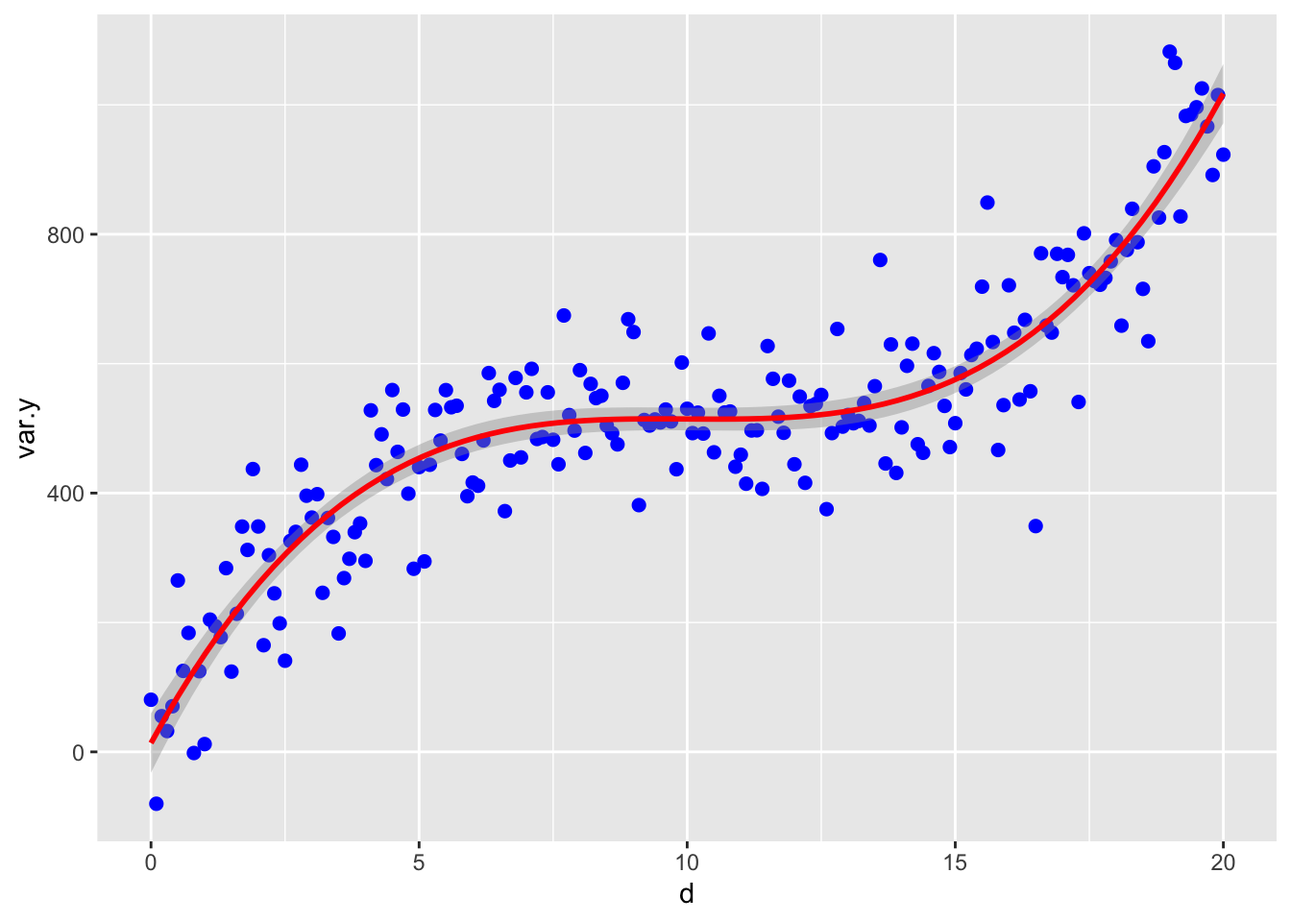
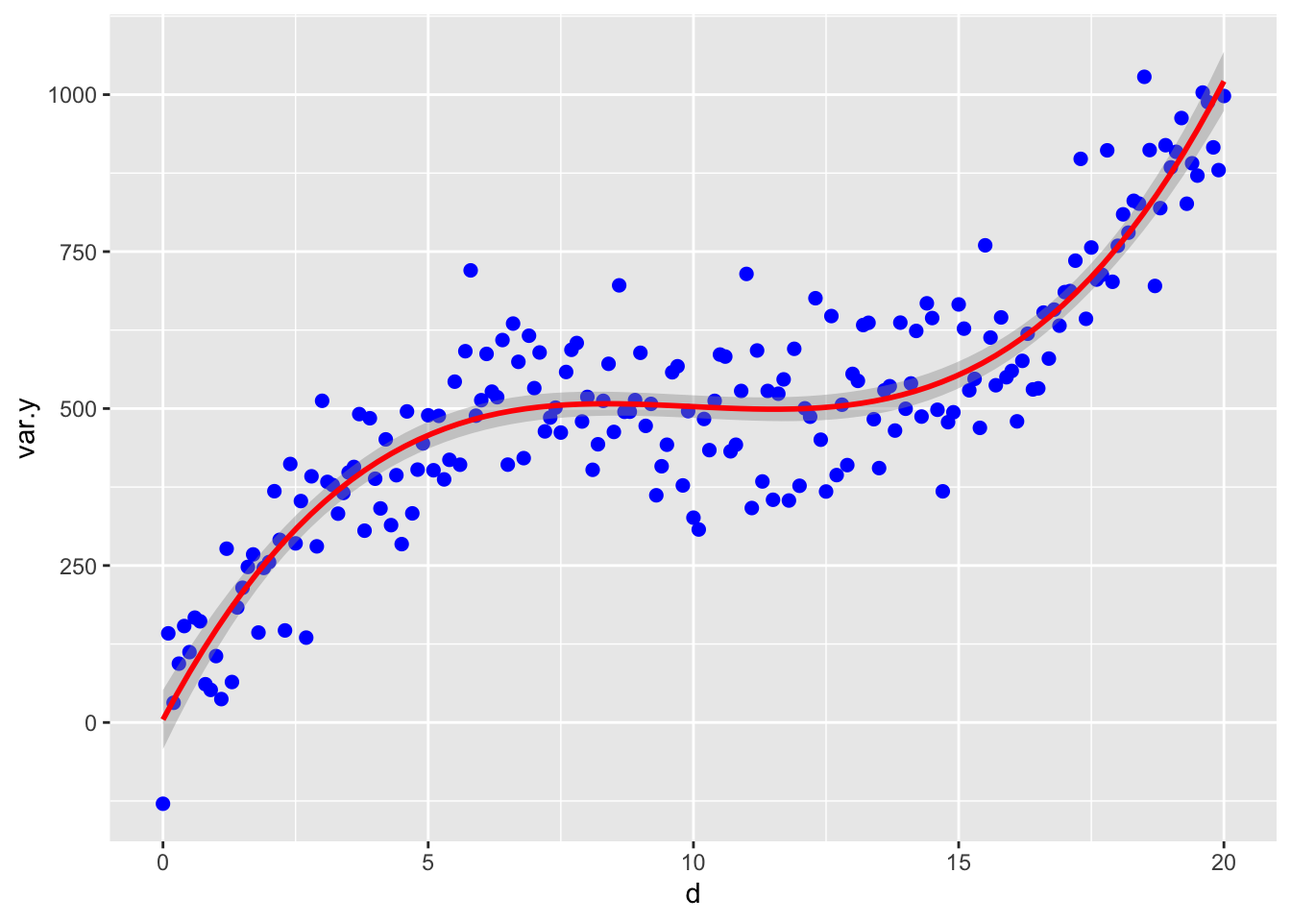
TF2

diff --git a/TF2_Regresion_Cuadratica_otro.html b/TF2_Regresion_Cuadratica_otro.html
@@ -687,34 +687,24 @@ div.tocify {
 }
 </style>
 <p><img src="Graficos/Analitica.png" width="50%" /><img src="Graficos/UPR_IPERT_logo.png" width="50%" /></p>
-<div class="sourceCode" id="cb1"><pre class="sourceCode r"><code class="sourceCode r"><span id="cb1-1"><a href="#cb1-1"></a>colorize &lt;-<span class="st"> </span><span class="cf">function</span>(x, color) {</span>
-<span id="cb1-2"><a href="#cb1-2"></a>  <span class="cf">if</span> (knitr<span class="op">::</span><span class="kw">is_latex_output</span>()) {</span>
-<span id="cb1-3"><a href="#cb1-3"></a>    <span class="kw">sprintf</span>(<span class="st">&quot;</span><span class="ch">\\</span><span class="st">textcolor{%s}{%s}&quot;</span>, color, x)</span>
-<span id="cb1-4"><a href="#cb1-4"></a>  } <span class="cf">else</span> <span class="cf">if</span> (knitr<span class="op">::</span><span class="kw">is_html_output</span>()) {</span>
-<span id="cb1-5"><a href="#cb1-5"></a>    <span class="kw">sprintf</span>(<span class="st">&quot;&lt;span style=&#39;color: %s;&#39;&gt;%s&lt;/span&gt;&quot;</span>, color, </span>
-<span id="cb1-6"><a href="#cb1-6"></a>      x)</span>
-<span id="cb1-7"><a href="#cb1-7"></a>  } <span class="cf">else</span> x</span>
-<span id="cb1-8"><a href="#cb1-8"></a>}</span>
-<span id="cb1-9"><a href="#cb1-9"></a></span>
-<span id="cb1-10"><a href="#cb1-10"></a><span class="co">#`r colorize(&quot;some words in red&quot;, &quot;red&quot;)`</span></span></code></pre></div>
 <hr />
-<div class="sourceCode" id="cb2"><pre class="sourceCode r"><code class="sourceCode r"><span id="cb2-1"><a href="#cb2-1"></a><span class="cf">if</span> (<span class="op">!</span><span class="kw">require</span>(<span class="st">&quot;pacman&quot;</span>)) <span class="kw">install.packages</span>(<span class="st">&quot;pacman&quot;</span>)</span>
-<span id="cb2-2"><a href="#cb2-2"></a>pacman<span class="op">::</span><span class="kw">p_load</span>(QuantPsyc, car, tidyverse, sjPlot)</span>
-<span id="cb2-3"><a href="#cb2-3"></a></span>
-<span id="cb2-4"><a href="#cb2-4"></a></span>
-<span id="cb2-5"><a href="#cb2-5"></a><span class="kw">library</span>(QuantPsyc)</span>
-<span id="cb2-6"><a href="#cb2-6"></a><span class="kw">library</span>(car)</span>
-<span id="cb2-7"><a href="#cb2-7"></a><span class="kw">library</span>(ggplot2)</span>
-<span id="cb2-8"><a href="#cb2-8"></a><span class="kw">library</span>(tidyverse)</span>
-<span id="cb2-9"><a href="#cb2-9"></a><span class="kw">library</span>(sjPlot)</span></code></pre></div>
+<div class="sourceCode" id="cb1"><pre class="sourceCode r"><code class="sourceCode r"><span id="cb1-1"><a href="#cb1-1"></a><span class="cf">if</span> (<span class="op">!</span><span class="kw">require</span>(<span class="st">&quot;pacman&quot;</span>)) <span class="kw">install.packages</span>(<span class="st">&quot;pacman&quot;</span>)</span>
+<span id="cb1-2"><a href="#cb1-2"></a>pacman<span class="op">::</span><span class="kw">p_load</span>(QuantPsyc, car, tidyverse, sjPlot)</span>
+<span id="cb1-3"><a href="#cb1-3"></a></span>
+<span id="cb1-4"><a href="#cb1-4"></a></span>
+<span id="cb1-5"><a href="#cb1-5"></a><span class="kw">library</span>(QuantPsyc)</span>
+<span id="cb1-6"><a href="#cb1-6"></a><span class="kw">library</span>(car)</span>
+<span id="cb1-7"><a href="#cb1-7"></a><span class="kw">library</span>(ggplot2)</span>
+<span id="cb1-8"><a href="#cb1-8"></a><span class="kw">library</span>(tidyverse)</span>
+<span id="cb1-9"><a href="#cb1-9"></a><span class="kw">library</span>(sjPlot)</span></code></pre></div>
 <hr />
 <div id="regresión-polinomial" class="section level1">
 <h1>Regresión Polinomial</h1>
 <p>El gráfico de residuos de la regresión lineal indica una distribución no aleatoria del error de predicción del modelo lineal. Es posible que pueda mejorar su predicción utilizando una regresión con un término cuadrático (es decir, X2), por lo que ahora tenemos una <strong>regresión con un polinomio.</strong></p>
 <p>Construcción de un modelo con polinomio. Usamos los datos de 15 observaciones de mujeres en el archivo <strong>women</strong> en el paquete <strong>datasets</strong>. Los datos representa la altura (en pulgadas) y el peso (en libras) de 15 mujeres entre las edades de 30 a 39.</p>
 <p>Nota aquí que se usa <strong>I(x^2)</strong> para añadir el polinomio al cuadrado <span class="math inline">\(x^2\)</span> . Ahora nuestro modelo evaluará el efecto de la regresión lineal y cuadrática. El resumen del modelo se observa que el modelo incluye tanto el intercepto, la ecuación lineal y el polinomio, y cada uno es significativo. Esto quiere decir que tanto el modelo lineal y el polinomio explica parte de la varianza.</p>
-<div class="sourceCode" id="cb3"><pre class="sourceCode r"><code class="sourceCode r"><span id="cb3-1"><a href="#cb3-1"></a>fit2 &lt;-<span class="st"> </span><span class="kw">lm</span>(weight <span class="op">~</span><span class="st"> </span>height <span class="op">+</span><span class="st"> </span><span class="kw">I</span>(height<span class="op">^</span><span class="dv">2</span>), <span class="dt">data=</span>women)</span>
-<span id="cb3-2"><a href="#cb3-2"></a><span class="kw">summary</span>(fit2)</span></code></pre></div>
+<div class="sourceCode" id="cb2"><pre class="sourceCode r"><code class="sourceCode r"><span id="cb2-1"><a href="#cb2-1"></a>fit2 &lt;-<span class="st"> </span><span class="kw">lm</span>(weight <span class="op">~</span><span class="st"> </span>height <span class="op">+</span><span class="st"> </span><span class="kw">I</span>(height<span class="op">^</span><span class="dv">2</span>), <span class="dt">data=</span>women)</span>
+<span id="cb2-2"><a href="#cb2-2"></a><span class="kw">summary</span>(fit2)</span></code></pre></div>
 <pre><code>## 
 ## Call:
 ## lm(formula = weight ~ height + I(height^2), data = women)
@@ -738,12 +728,12 @@ div.tocify {
 <div id="visualizando-el-gráfico." class="section level2">
 <h2>Visualizando el gráfico.</h2>
 <p>Nota que la linea azul representa el modelo de regresión lineal y la linea roja representa el modelo <span class="math inline">\(x^2\)</span>. Es claro que el modelo <span class="math inline">\(x^2\)</span> es un mejor modelo ya que los datos se acerca más a la linea.</p>
-<div class="sourceCode" id="cb5"><pre class="sourceCode r"><code class="sourceCode r"><span id="cb5-1"><a href="#cb5-1"></a><span class="kw">ggplot</span>(women, <span class="kw">aes</span>(height, weight)) <span class="op">+</span></span>
-<span id="cb5-2"><a href="#cb5-2"></a><span class="st">  </span><span class="kw">geom_point</span>(<span class="dt">color =</span><span class="st">&quot;blue&quot;</span>, <span class="dt">size=</span><span class="dv">2</span>) <span class="op">+</span></span>
-<span id="cb5-3"><a href="#cb5-3"></a><span class="st">  </span><span class="kw">geom_smooth</span>(<span class="dt">method=</span>lm)<span class="op">+</span></span>
-<span id="cb5-4"><a href="#cb5-4"></a><span class="st">  </span><span class="kw">stat_smooth</span>(<span class="kw">aes</span>(), <span class="dt">method =</span> <span class="st">&quot;lm&quot;</span>, <span class="dt">formula =</span> y <span class="op">~</span><span class="st"> </span><span class="kw">poly</span>(x,<span class="dv">2</span>), </span>
-<span id="cb5-5"><a href="#cb5-5"></a>              <span class="dt">color =</span><span class="st">&quot;red&quot;</span>, <span class="dt">se =</span><span class="ot">TRUE</span>, <span class="dt">size =</span> <span class="dv">1</span>) <span class="op">+</span></span>
-<span id="cb5-6"><a href="#cb5-6"></a><span class="st">  </span><span class="kw">labs</span>(<span class="dt">x=</span><span class="st">&quot;Height, inches&quot;</span>, <span class="dt">y=</span><span class="st">&quot;Weight, lb.&quot;</span>)</span></code></pre></div>
+<div class="sourceCode" id="cb4"><pre class="sourceCode r"><code class="sourceCode r"><span id="cb4-1"><a href="#cb4-1"></a><span class="kw">ggplot</span>(women, <span class="kw">aes</span>(height, weight)) <span class="op">+</span></span>
+<span id="cb4-2"><a href="#cb4-2"></a><span class="st">  </span><span class="kw">geom_point</span>(<span class="dt">color =</span><span class="st">&quot;blue&quot;</span>, <span class="dt">size=</span><span class="dv">2</span>) <span class="op">+</span></span>
+<span id="cb4-3"><a href="#cb4-3"></a><span class="st">  </span><span class="kw">geom_smooth</span>(<span class="dt">method=</span>lm)<span class="op">+</span></span>
+<span id="cb4-4"><a href="#cb4-4"></a><span class="st">  </span><span class="kw">stat_smooth</span>(<span class="kw">aes</span>(), <span class="dt">method =</span> <span class="st">&quot;lm&quot;</span>, <span class="dt">formula =</span> y <span class="op">~</span><span class="st"> </span><span class="kw">poly</span>(x,<span class="dv">2</span>), </span>
+<span id="cb4-5"><a href="#cb4-5"></a>              <span class="dt">color =</span><span class="st">&quot;red&quot;</span>, <span class="dt">se =</span><span class="ot">TRUE</span>, <span class="dt">size =</span> <span class="dv">1</span>) <span class="op">+</span></span>
+<span id="cb4-6"><a href="#cb4-6"></a><span class="st">  </span><span class="kw">labs</span>(<span class="dt">x=</span><span class="st">&quot;Height, inches&quot;</span>, <span class="dt">y=</span><span class="st">&quot;Weight, lb.&quot;</span>)</span></code></pre></div>
 <pre><code>## `geom_smooth()` using formula &#39;y ~ x&#39;</code></pre>
 <p><img src="TF2_Regresion_Cuadratica_otro_files/figure-html/unnamed-chunk-4-1.png" width="672" /></p>
 <hr />
@@ -751,24 +741,24 @@ div.tocify {
 <div id="visualizando-los-residuales" class="section level2">
 <h2>Visualizando los residuales</h2>
 <p>Recuerda que los residuales tienen que ser normalmente distribuido a través de la variables de <strong>x</strong>. En este caso vemos que lo tamaño de residuales no están concentrado en un área de la gráfico. Por ejemplo los residuales no son más grande en los valores de <strong>x</strong> más grande.</p>
-<div class="sourceCode" id="cb7"><pre class="sourceCode r"><code class="sourceCode r"><span id="cb7-1"><a href="#cb7-1"></a><span class="kw">plot</span>(women<span class="op">$</span>height,<span class="kw">residuals</span>(fit2),</span>
-<span id="cb7-2"><a href="#cb7-2"></a>     <span class="dt">xlab=</span><span class="st">&quot;Height (in inches)&quot;</span>,</span>
-<span id="cb7-3"><a href="#cb7-3"></a>     <span class="dt">ylab=</span><span class="st">&quot;residuals&quot;</span>)</span></code></pre></div>
+<div class="sourceCode" id="cb6"><pre class="sourceCode r"><code class="sourceCode r"><span id="cb6-1"><a href="#cb6-1"></a><span class="kw">plot</span>(women<span class="op">$</span>height,<span class="kw">residuals</span>(fit2),</span>
+<span id="cb6-2"><a href="#cb6-2"></a>     <span class="dt">xlab=</span><span class="st">&quot;Height (in inches)&quot;</span>,</span>
+<span id="cb6-3"><a href="#cb6-3"></a>     <span class="dt">ylab=</span><span class="st">&quot;residuals&quot;</span>)</span></code></pre></div>
 <p><img src="TF2_Regresion_Cuadratica_otro_files/figure-html/unnamed-chunk-5-1.png" width="672" /></p>
 <hr />
 <p>La nueva ecuación polinomial es la siguiente:</p>
 <p><span class="math display">\[y=\alpha+b_1x_i+b_2x_i^2+\epsilon\]</span></p>
 <p>donde el intercepto <span class="math inline">\(\alpha\)</span> más los dos coeficientes, <span class="math inline">\(b_1\)</span> para el componente lineal y el component cuadratico <span class="math inline">\(b_2\)</span>, el <span class="math inline">\(\epsilon\)</span> son los errores.</p>
 <p><span class="math display">\[y=261.9-7.35*x_i+0.08*x_i^2\]</span></p>
-<div class="sourceCode" id="cb8"><pre class="sourceCode r"><code class="sourceCode r"><span id="cb8-1"><a href="#cb8-1"></a><span class="kw">tab_model</span>(</span>
-<span id="cb8-2"><a href="#cb8-2"></a>  fit2,<span class="dt">show.df =</span> <span class="ot">TRUE</span>,<span class="dt">show.stat =</span> <span class="ot">TRUE</span>,</span>
-<span id="cb8-3"><a href="#cb8-3"></a>  <span class="dt">CSS =</span> <span class="kw">list</span>(</span>
-<span id="cb8-4"><a href="#cb8-4"></a>    <span class="dt">css.depvarhead =</span> <span class="st">&#39;color: red;&#39;</span>,</span>
-<span id="cb8-5"><a href="#cb8-5"></a>    <span class="dt">css.centeralign =</span> <span class="st">&#39;text-align: left;&#39;</span>, </span>
-<span id="cb8-6"><a href="#cb8-6"></a>    <span class="dt">css.firsttablecol =</span> <span class="st">&#39;font-weight: bold;&#39;</span>, </span>
-<span id="cb8-7"><a href="#cb8-7"></a>    <span class="dt">css.summary =</span> <span class="st">&#39;color: blue;&#39;</span></span>
-<span id="cb8-8"><a href="#cb8-8"></a>  )</span>
-<span id="cb8-9"><a href="#cb8-9"></a>)</span></code></pre></div>
+<div class="sourceCode" id="cb7"><pre class="sourceCode r"><code class="sourceCode r"><span id="cb7-1"><a href="#cb7-1"></a><span class="kw">tab_model</span>(</span>
+<span id="cb7-2"><a href="#cb7-2"></a>  fit2,<span class="dt">show.df =</span> <span class="ot">TRUE</span>,<span class="dt">show.stat =</span> <span class="ot">TRUE</span>,</span>
+<span id="cb7-3"><a href="#cb7-3"></a>  <span class="dt">CSS =</span> <span class="kw">list</span>(</span>
+<span id="cb7-4"><a href="#cb7-4"></a>    <span class="dt">css.depvarhead =</span> <span class="st">&#39;color: red;&#39;</span>,</span>
+<span id="cb7-5"><a href="#cb7-5"></a>    <span class="dt">css.centeralign =</span> <span class="st">&#39;text-align: left;&#39;</span>, </span>
+<span id="cb7-6"><a href="#cb7-6"></a>    <span class="dt">css.firsttablecol =</span> <span class="st">&#39;font-weight: bold;&#39;</span>, </span>
+<span id="cb7-7"><a href="#cb7-7"></a>    <span class="dt">css.summary =</span> <span class="st">&#39;color: blue;&#39;</span></span>
+<span id="cb7-8"><a href="#cb7-8"></a>  )</span>
+<span id="cb7-9"><a href="#cb7-9"></a>)</span></code></pre></div>
 <table style="border-collapse:collapse; border:none;">
 <tr>
 <th style="border-top: double; text-align:center; font-style:italic; font-weight:normal; padding:0.2cm; border-bottom:1px solid black; font-weight: bold; ">
@@ -887,44 +877,45 @@ R<sup>2</sup> / R<sup>2</sup> adjusted
 <h1>Modelo cúbico</h1>
 <p>Aquí un ejemplo para evaluar si los datos tienen una distribución cubica. Primero creamos un conjunto de datos.</p>
 <p>Los valores en la variable <strong>x</strong></p>
-<div class="sourceCode" id="cb9"><pre class="sourceCode r"><code class="sourceCode r"><span id="cb9-1"><a href="#cb9-1"></a>d&lt;-<span class="kw">seq</span>(<span class="dt">from=</span><span class="dv">0</span>, <span class="dt">to=</span><span class="dv">20</span>, <span class="dt">by=</span><span class="fl">0.1</span>)</span></code></pre></div>
+<div class="sourceCode" id="cb8"><pre class="sourceCode r"><code class="sourceCode r"><span id="cb8-1"><a href="#cb8-1"></a>d&lt;-<span class="kw">seq</span>(<span class="dt">from=</span><span class="dv">0</span>, <span class="dt">to=</span><span class="dv">20</span>, <span class="dt">by=</span><span class="fl">0.1</span>)</span></code></pre></div>
 <p>Los valores en predicho en la variable <strong>y</strong></p>
-<div class="sourceCode" id="cb10"><pre class="sourceCode r"><code class="sourceCode r"><span id="cb10-1"><a href="#cb10-1"></a>y&lt;-<span class="dv">500</span><span class="fl">+0.5</span><span class="op">*</span>(d<span class="dv">-10</span>)<span class="op">^</span><span class="dv">3</span></span></code></pre></div>
+<div class="sourceCode" id="cb9"><pre class="sourceCode r"><code class="sourceCode r"><span id="cb9-1"><a href="#cb9-1"></a>y&lt;-<span class="dv">500</span><span class="fl">+0.5</span><span class="op">*</span>(d<span class="dv">-10</span>)<span class="op">^</span><span class="dv">3</span></span></code></pre></div>
 <p>Crear un conjunto de datos que tiene variación. Donde los datos tienen una variación con distribución normal con un promedio de 10 y una desviación estandar de 80.</p>
-<div class="sourceCode" id="cb11"><pre class="sourceCode r"><code class="sourceCode r"><span id="cb11-1"><a href="#cb11-1"></a>variación &lt;-<span class="st"> </span><span class="kw">rnorm</span>(<span class="kw">length</span>(d), <span class="dt">mean=</span><span class="dv">10</span>, <span class="dt">sd=</span><span class="dv">80</span>)</span>
-<span id="cb11-2"><a href="#cb11-2"></a>var.y &lt;-<span class="st"> </span>y <span class="op">+</span><span class="st"> </span>variación</span></code></pre></div>
+<div class="sourceCode" id="cb10"><pre class="sourceCode r"><code class="sourceCode r"><span id="cb10-1"><a href="#cb10-1"></a>variación &lt;-<span class="st"> </span><span class="kw">rnorm</span>(<span class="kw">length</span>(d), <span class="dt">mean=</span><span class="dv">10</span>, <span class="dt">sd=</span><span class="dv">80</span>)</span>
+<span id="cb10-2"><a href="#cb10-2"></a>var.y &lt;-<span class="st"> </span>y <span class="op">+</span><span class="st"> </span>variación</span></code></pre></div>
 <p>Unir los datos un un <strong>tibble</strong></p>
-<div class="sourceCode" id="cb12"><pre class="sourceCode r"><code class="sourceCode r"><span id="cb12-1"><a href="#cb12-1"></a>df=<span class="kw">tibble</span>(y,var.y, d)</span></code></pre></div>
+<div class="sourceCode" id="cb11"><pre class="sourceCode r"><code class="sourceCode r"><span id="cb11-1"><a href="#cb11-1"></a>df=<span class="kw">tibble</span>(y,var.y, d)</span></code></pre></div>
 <p>Visualizar los datos con el polinomio al <span class="math inline">\(x^3\)</span>.</p>
-<div class="sourceCode" id="cb13"><pre class="sourceCode r"><code class="sourceCode r"><span id="cb13-1"><a href="#cb13-1"></a><span class="kw">ggplot</span>(df, <span class="kw">aes</span>(d, var.y)) <span class="op">+</span></span>
-<span id="cb13-2"><a href="#cb13-2"></a><span class="st">  </span><span class="kw">geom_point</span>(<span class="dt">color =</span><span class="st">&quot;blue&quot;</span>, <span class="dt">size=</span><span class="dv">2</span>) <span class="op">+</span></span>
-<span id="cb13-3"><a href="#cb13-3"></a><span class="st">  </span><span class="kw">stat_smooth</span>(<span class="dt">method =</span> <span class="st">&quot;lm&quot;</span>, <span class="dt">formula =</span> y <span class="op">~</span><span class="st"> </span><span class="kw">poly</span>(x,<span class="dv">3</span>), </span>
-<span id="cb13-4"><a href="#cb13-4"></a>              <span class="dt">color =</span><span class="st">&quot;red&quot;</span>, <span class="dt">se =</span><span class="ot">TRUE</span>, <span class="dt">size =</span> <span class="dv">1</span>)</span></code></pre></div>
+<div class="sourceCode" id="cb12"><pre class="sourceCode r"><code class="sourceCode r"><span id="cb12-1"><a href="#cb12-1"></a><span class="kw">ggplot</span>(df, <span class="kw">aes</span>(d, var.y)) <span class="op">+</span></span>
+<span id="cb12-2"><a href="#cb12-2"></a><span class="st">  </span><span class="kw">geom_point</span>(<span class="dt">color =</span><span class="st">&quot;blue&quot;</span>, <span class="dt">size=</span><span class="dv">2</span>) <span class="op">+</span></span>
+<span id="cb12-3"><a href="#cb12-3"></a><span class="st">  </span><span class="kw">stat_smooth</span>(<span class="dt">method =</span> <span class="st">&quot;lm&quot;</span>, <span class="dt">formula =</span> y <span class="op">~</span><span class="st"> </span><span class="kw">poly</span>(x,<span class="dv">3</span>), </span>
+<span id="cb12-4"><a href="#cb12-4"></a>              <span class="dt">color =</span><span class="st">&quot;red&quot;</span>, <span class="dt">se =</span><span class="ot">TRUE</span>, <span class="dt">size =</span> <span class="dv">1</span>)</span></code></pre></div>
 <p><img src="TF2_Regresion_Cuadratica_otro_files/figure-html/unnamed-chunk-11-1.png" width="672" /></p>
 <p>Ahora vemos como se ve los modelos de <span style="color: blue;">regresión lineal</span> y <span style="color: orange;">cuadratico</span>. nota que el cubico los datos siguen mucho mejor los datos.</p>
-<div class="sourceCode" id="cb14"><pre class="sourceCode r"><code class="sourceCode r"><span id="cb14-1"><a href="#cb14-1"></a><span class="kw">ggplot</span>(df, <span class="kw">aes</span>(d, var.y)) <span class="op">+</span></span>
-<span id="cb14-2"><a href="#cb14-2"></a><span class="st">  </span><span class="kw">geom_point</span>(<span class="dt">color =</span><span class="st">&quot;blue&quot;</span>, <span class="dt">size=</span><span class="dv">2</span>) <span class="op">+</span></span>
-<span id="cb14-3"><a href="#cb14-3"></a><span class="st">  </span><span class="kw">geom_smooth</span>(<span class="dt">method=</span>lm, <span class="dt">color=</span><span class="st">&quot;blue&quot;</span>)<span class="op">+</span></span>
-<span id="cb14-4"><a href="#cb14-4"></a><span class="st">  </span><span class="kw">stat_smooth</span>(<span class="dt">method =</span> <span class="st">&quot;lm&quot;</span>, <span class="dt">formula =</span> y <span class="op">~</span><span class="st"> </span><span class="kw">poly</span>(x,<span class="dv">2</span>), </span>
-<span id="cb14-5"><a href="#cb14-5"></a>              <span class="dt">color =</span><span class="st">&quot;orange&quot;</span>, <span class="dt">se =</span><span class="ot">TRUE</span>, <span class="dt">size =</span> <span class="dv">1</span>)<span class="op">+</span></span>
-<span id="cb14-6"><a href="#cb14-6"></a><span class="st">  </span><span class="kw">stat_smooth</span>(<span class="dt">method =</span> <span class="st">&quot;lm&quot;</span>, <span class="dt">formula =</span> y <span class="op">~</span><span class="st"> </span><span class="kw">poly</span>(x,<span class="dv">3</span>), </span>
-<span id="cb14-7"><a href="#cb14-7"></a>              <span class="dt">color =</span><span class="st">&quot;red&quot;</span>, <span class="dt">se =</span><span class="ot">TRUE</span>, <span class="dt">size =</span> <span class="dv">1</span>)</span></code></pre></div>
+<div class="sourceCode" id="cb13"><pre class="sourceCode r"><code class="sourceCode r"><span id="cb13-1"><a href="#cb13-1"></a><span class="kw">ggplot</span>(df, <span class="kw">aes</span>(d, var.y)) <span class="op">+</span></span>
+<span id="cb13-2"><a href="#cb13-2"></a><span class="st">  </span><span class="kw">geom_point</span>(<span class="dt">color =</span><span class="st">&quot;blue&quot;</span>, <span class="dt">size=</span><span class="dv">2</span>) <span class="op">+</span></span>
+<span id="cb13-3"><a href="#cb13-3"></a><span class="st">  </span><span class="kw">geom_smooth</span>(<span class="dt">method=</span>lm, <span class="dt">color=</span><span class="st">&quot;blue&quot;</span>)<span class="op">+</span></span>
+<span id="cb13-4"><a href="#cb13-4"></a><span class="st">  </span><span class="kw">stat_smooth</span>(<span class="dt">method =</span> <span class="st">&quot;lm&quot;</span>, <span class="dt">formula =</span> y <span class="op">~</span><span class="st"> </span><span class="kw">poly</span>(x,<span class="dv">2</span>), </span>
+<span id="cb13-5"><a href="#cb13-5"></a>              <span class="dt">color =</span><span class="st">&quot;orange&quot;</span>, <span class="dt">se =</span><span class="ot">TRUE</span>, <span class="dt">size =</span> <span class="dv">1</span>)<span class="op">+</span></span>
+<span id="cb13-6"><a href="#cb13-6"></a><span class="st">  </span><span class="kw">stat_smooth</span>(<span class="dt">method =</span> <span class="st">&quot;lm&quot;</span>, <span class="dt">formula =</span> y <span class="op">~</span><span class="st"> </span><span class="kw">poly</span>(x,<span class="dv">3</span>), </span>
+<span id="cb13-7"><a href="#cb13-7"></a>              <span class="dt">color =</span><span class="st">&quot;red&quot;</span>, <span class="dt">se =</span><span class="ot">TRUE</span>, <span class="dt">size =</span> <span class="dv">1</span>)</span></code></pre></div>
 <pre><code>## `geom_smooth()` using formula &#39;y ~ x&#39;</code></pre>
 <p><img src="TF2_Regresion_Cuadratica_otro_files/figure-html/unnamed-chunk-12-1.png" width="672" /></p>
 <hr />
-<p>#Construir el modelo cubico</p>
-<div class="sourceCode" id="cb16"><pre class="sourceCode r"><code class="sourceCode r"><span id="cb16-1"><a href="#cb16-1"></a>fit3 &lt;-<span class="st"> </span><span class="kw">lm</span>(var.y <span class="op">~</span><span class="st"> </span>d <span class="op">+</span><span class="st"> </span><span class="kw">I</span>(d<span class="op">^</span><span class="dv">2</span>)<span class="op">+</span><span class="st"> </span><span class="kw">I</span>(d<span class="op">^</span><span class="dv">3</span>), <span class="dt">data=</span>df)</span>
-<span id="cb16-2"><a href="#cb16-2"></a></span>
-<span id="cb16-3"><a href="#cb16-3"></a></span>
-<span id="cb16-4"><a href="#cb16-4"></a><span class="kw">tab_model</span>(</span>
-<span id="cb16-5"><a href="#cb16-5"></a>  fit3,<span class="dt">show.df =</span> <span class="ot">TRUE</span>,<span class="dt">show.stat =</span> <span class="ot">TRUE</span>,</span>
-<span id="cb16-6"><a href="#cb16-6"></a>  <span class="dt">CSS =</span> <span class="kw">list</span>(</span>
-<span id="cb16-7"><a href="#cb16-7"></a>    <span class="dt">css.depvarhead =</span> <span class="st">&#39;color: red;&#39;</span>,</span>
-<span id="cb16-8"><a href="#cb16-8"></a>    <span class="dt">css.centeralign =</span> <span class="st">&#39;text-align: left;&#39;</span>, </span>
-<span id="cb16-9"><a href="#cb16-9"></a>    <span class="dt">css.firsttablecol =</span> <span class="st">&#39;font-weight: bold;&#39;</span>, </span>
-<span id="cb16-10"><a href="#cb16-10"></a>    <span class="dt">css.summary =</span> <span class="st">&#39;color: blue;&#39;</span></span>
-<span id="cb16-11"><a href="#cb16-11"></a>  )</span>
-<span id="cb16-12"><a href="#cb16-12"></a>)</span></code></pre></div>
+<div id="construir-el-modelo-cubico" class="section level2">
+<h2>Construir el modelo cubico</h2>
+<div class="sourceCode" id="cb15"><pre class="sourceCode r"><code class="sourceCode r"><span id="cb15-1"><a href="#cb15-1"></a>fit3 &lt;-<span class="st"> </span><span class="kw">lm</span>(var.y <span class="op">~</span><span class="st"> </span>d <span class="op">+</span><span class="st"> </span><span class="kw">I</span>(d<span class="op">^</span><span class="dv">2</span>)<span class="op">+</span><span class="st"> </span><span class="kw">I</span>(d<span class="op">^</span><span class="dv">3</span>), <span class="dt">data=</span>df)</span>
+<span id="cb15-2"><a href="#cb15-2"></a></span>
+<span id="cb15-3"><a href="#cb15-3"></a></span>
+<span id="cb15-4"><a href="#cb15-4"></a><span class="kw">tab_model</span>(</span>
+<span id="cb15-5"><a href="#cb15-5"></a>  fit3,<span class="dt">show.df =</span> <span class="ot">TRUE</span>,<span class="dt">show.stat =</span> <span class="ot">TRUE</span>,</span>
+<span id="cb15-6"><a href="#cb15-6"></a>  <span class="dt">CSS =</span> <span class="kw">list</span>(</span>
+<span id="cb15-7"><a href="#cb15-7"></a>    <span class="dt">css.depvarhead =</span> <span class="st">&#39;color: red;&#39;</span>,</span>
+<span id="cb15-8"><a href="#cb15-8"></a>    <span class="dt">css.centeralign =</span> <span class="st">&#39;text-align: left;&#39;</span>, </span>
+<span id="cb15-9"><a href="#cb15-9"></a>    <span class="dt">css.firsttablecol =</span> <span class="st">&#39;font-weight: bold;&#39;</span>, </span>
+<span id="cb15-10"><a href="#cb15-10"></a>    <span class="dt">css.summary =</span> <span class="st">&#39;color: blue;&#39;</span></span>
+<span id="cb15-11"><a href="#cb15-11"></a>  )</span>
+<span id="cb15-12"><a href="#cb15-12"></a>)</span></code></pre></div>
 <table style="border-collapse:collapse; border:none;">
 <tr>
 <th style="border-top: double; text-align:center; font-style:italic; font-weight:normal; padding:0.2cm; border-bottom:1px solid black; font-weight: bold; ">
@@ -959,16 +950,16 @@ df
 (Intercept)
 </td>
 <td style=" padding:0.2cm; text-align:left; vertical-align:top; text-align: left;  ">
-13.63
+4.53
 </td>
 <td style=" padding:0.2cm; text-align:left; vertical-align:top; text-align: left;  ">
--32.17 – 59.43
+-42.65 – 51.72
 </td>
 <td style=" padding:0.2cm; text-align:left; vertical-align:top; text-align: left;  ">
-0.59
+0.19
 </td>
 <td style=" padding:0.2cm; text-align:left; vertical-align:top; text-align: left;  ">
-0.558
+0.850
 </td>
 <td style=" padding:0.2cm; text-align:left; vertical-align:top; text-align: left;  ">
 197.00
@@ -979,13 +970,13 @@ df
 d
 </td>
 <td style=" padding:0.2cm; text-align:left; vertical-align:top; text-align: left;  ">
-151.42
+158.81
 </td>
 <td style=" padding:0.2cm; text-align:left; vertical-align:top; text-align: left;  ">
-131.54 – 171.30
+138.33 – 179.29
 </td>
 <td style=" padding:0.2cm; text-align:left; vertical-align:top; text-align: left;  ">
-15.02
+15.29
 </td>
 <td style=" padding:0.2cm; text-align:left; vertical-align:top; text-align: left;  ">
 <strong>&lt;0.001
@@ -999,13 +990,13 @@ d
 d^2
 </td>
 <td style=" padding:0.2cm; text-align:left; vertical-align:top; text-align: left;  ">
--15.21
+-16.39
 </td>
 <td style=" padding:0.2cm; text-align:left; vertical-align:top; text-align: left;  ">
--17.52 – -12.89
+-18.78 – -14.01
 </td>
 <td style=" padding:0.2cm; text-align:left; vertical-align:top; text-align: left;  ">
--12.96
+-13.56
 </td>
 <td style=" padding:0.2cm; text-align:left; vertical-align:top; text-align: left;  ">
 <strong>&lt;0.001
@@ -1019,13 +1010,13 @@ d^2
 d^3
 </td>
 <td style=" padding:0.2cm; text-align:left; vertical-align:top; text-align: left;  ">
-0.51
+0.55
 </td>
 <td style=" padding:0.2cm; text-align:left; vertical-align:top; text-align: left;  ">
-0.43 – 0.58
+0.47 – 0.63
 </td>
 <td style=" padding:0.2cm; text-align:left; vertical-align:top; text-align: left;  ">
-13.16
+13.84
 </td>
 <td style=" padding:0.2cm; text-align:left; vertical-align:top; text-align: left;  ">
 <strong>&lt;0.001
@@ -1047,13 +1038,35 @@ Observations
 R<sup>2</sup> / R<sup>2</sup> adjusted
 </td>
 <td style=" padding:0.2cm; text-align:left; vertical-align:top; color: blue; text-align:center;" colspan="5">
-0.842 / 0.840
+0.830 / 0.828
 </td>
 </tr>
 </table>
+<hr />
+</div>
+<div id="los-residuales-del-modelo" class="section level2">
+<h2>Los residuales del modelo</h2>
+<p>Se observa que los residuales están distribuido uniformemente entre todos los valores de la variable en <strong>x</strong>. Por consecuencia cumple con el supuesto de <strong>Igualdad de varianza</strong>.</p>
+<div class="sourceCode" id="cb16"><pre class="sourceCode r"><code class="sourceCode r"><span id="cb16-1"><a href="#cb16-1"></a><span class="kw">plot</span>(df<span class="op">$</span>d,<span class="kw">residuals</span>(fit3))</span></code></pre></div>
+<p><img src="TF2_Regresion_Cuadratica_otro_files/figure-html/unnamed-chunk-13-1.png" width="672" /></p>
+</div>
 <div id="interpretación-de-la-tabla-de-resultados-1" class="section level2">
 <h2>Interpretación de la tabla de resultados</h2>
 <p>La cantidad de variación contabilizada toma en cuenta 84.8%. La significación del término cuadrático (t = 13.31, p &lt;0.001) sugiere que la inclusión del término cubica mejora el ajuste del modelo. El error de predicción (residuales) es menor y su distribución parece más aleatoria.</p>
+<hr />
+</div>
+<div id="residuales-y-patrones" class="section level2">
+<h2>Residuales y patrones</h2>
+<p>Evidencia de Residuales que no cumple con <strong>Igualdad de varianza.</strong></p>
+<p>Aquí se demuestra algunos de los patrones que pudiese sugerir que los datos no cumple con los supuestos de la prueba. El grafico es de Field, Miles and Field del libro Discovering Statistics Using R. La figure 7.15.</p>
+<ul>
+<li><p>En el gráfico arriba a la izquierda es una distribución de los datos que sugiere igualdad de varianza o <strong>homogeneidad de varianza</strong>.</p></li>
+<li><p>En el gráfico arriba a la derecha demuestra un patrón de residuales donde los residuales no son distribuido equitativamente, y sugiere heteroescadisticidad de varianza.</p></li>
+<li><p>En el gráfico abajo a la izquierda un patrón donde sugiere que la relación entre una variable y otra no es lineal.</p></li>
+<li><p>En el gráfico abajo a la derecha se observa un patrón de residuales donde tanto los datos son heteroescadisticidad y no-lineal.</p></li>
+</ul>
+<div class="sourceCode" id="cb17"><pre class="sourceCode r"><code class="sourceCode r"><span id="cb17-1"><a href="#cb17-1"></a>knitr<span class="op">::</span><span class="kw">include_graphics</span>(<span class="st">&quot;Graficos/Residuals_heteroscadasticity.png&quot;</span>)</span></code></pre></div>
+<p><img src="Graficos/Residuals_heteroscadasticity.png" width="50%" /></p>
 <hr />
 <blockquote>
 <p>“Activities reported in this website was supported by the National Institute Of General Medical Sciences of the National Institutes of Health under Award Number R25GM121270. The content is solely the responsibility of the authors and does not necessarily represent the official views of the National Institutes of Health.”</p>
